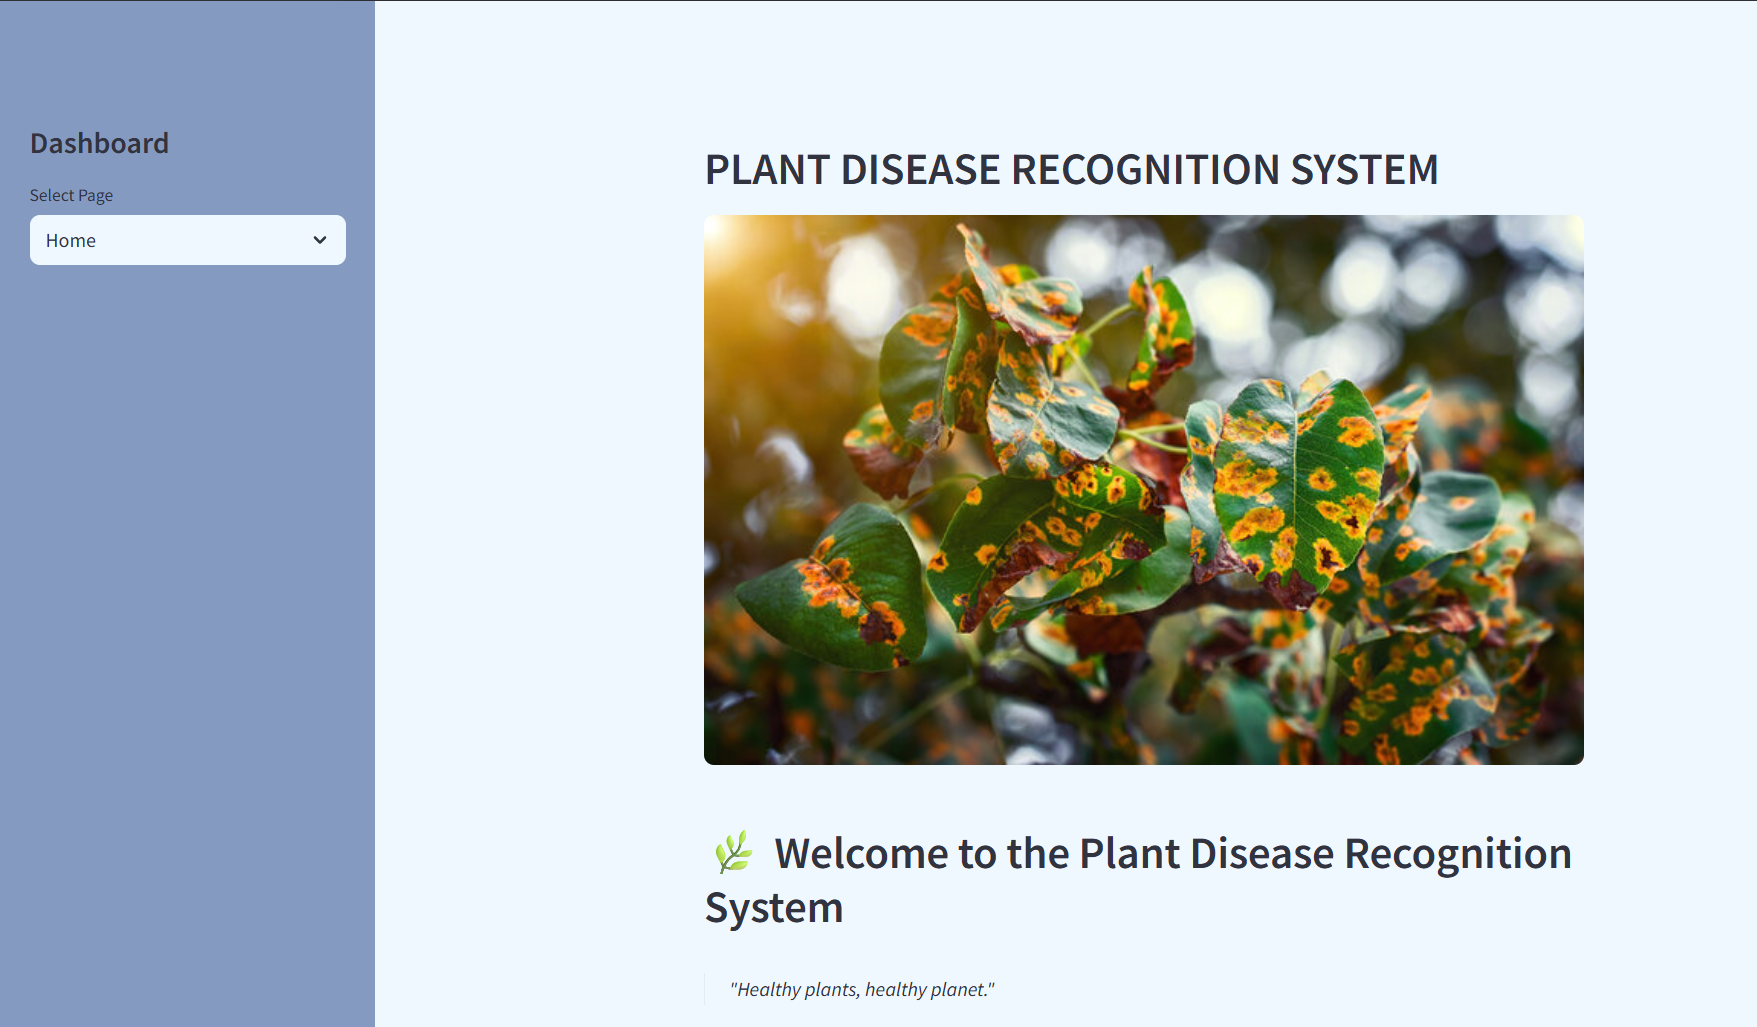
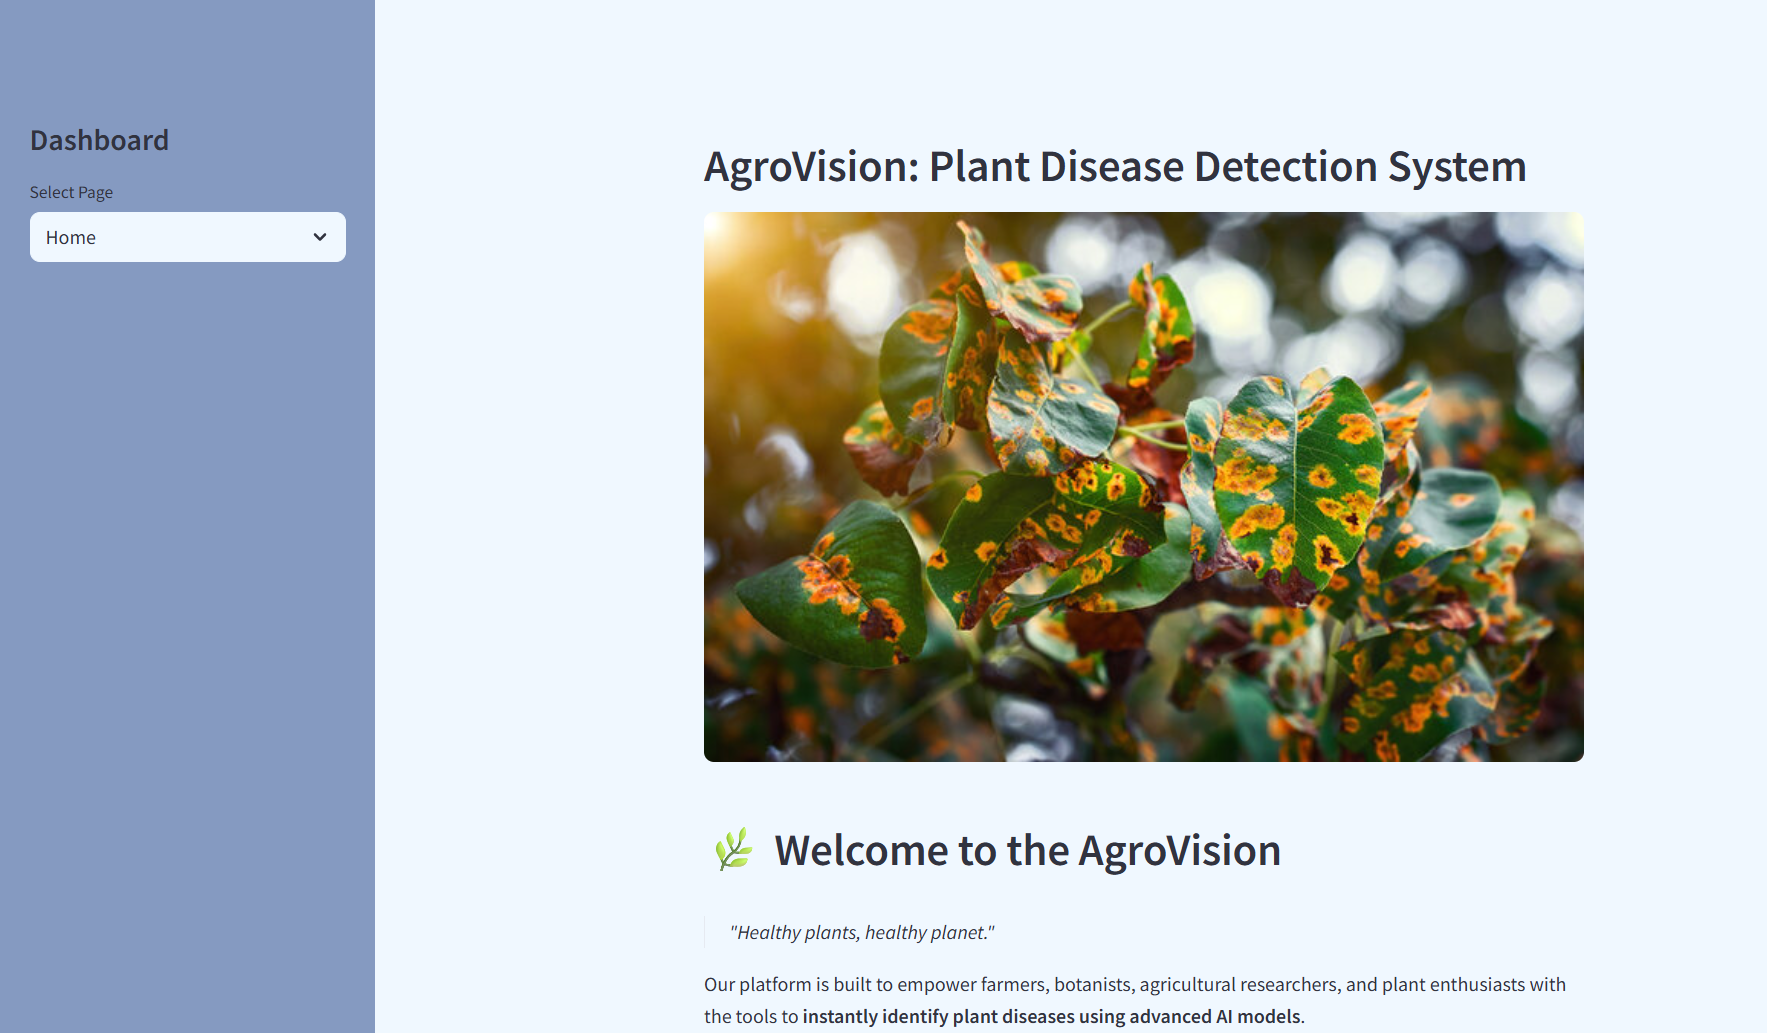
Update src and assets folders

diff --git a/src/main.py b/src/main.py
@@ -36,7 +36,7 @@ app_mode = st.sidebar.selectbox("Select Page",["Home","About","Disease Recogniti
 #Main Page
 if(app_mode=="Home"):
     
-    st.header("PLANT DISEASE RECOGNITION SYSTEM")
+    st.header("AgroVision: Plant Disease Detection System")
      # Relative path to image
     image_path = os.path.join(os.path.dirname(__file__), '..', 'assets', 'home_page.jpeg')
     st.image(image_path, use_container_width=True)
@@ -60,7 +60,7 @@ if(app_mode=="Home"):
     """, unsafe_allow_html=True)
 
     st.markdown("""
-    ## 🌿 Welcome to the Plant Disease Recognition System
+    ## 🌿 Welcome to the AgroVision
 
     > *"Healthy plants, healthy planet."*
 
